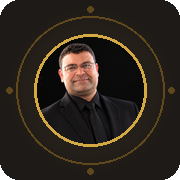
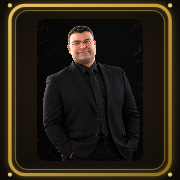
ر5: صورة المعلم كاملة في الدخلة والفافيكون + توحيد برايم ديفيلوبر — شاشة الدخلة الفخمة بلغة الضاد (المعلم كامل في إطار مذهب مربع + ميدالية الضاد + وسم لغة الضاد بدل الوش المقصوص بس) + الفافيكون وكل أيقونات PWA والسبلاش السبعة اتولدت من جديد بصورة المعلم الكاملة مربعة + الفوتر والنافبار ولوحة الأدمن 

diff --git a/src/app/page.tsx b/src/app/page.tsx
@@ -183,34 +183,58 @@ export default function HomePage() {
   const showFooter = currentView === 'landing'
   const showWhatsApp = currentView === 'landing' || currentView === 'auth-login' || currentView === 'auth-register'
 
-  // Full-page loading screen
+  /* (ر5) شاشة الدخلة الفخمة — طلب المستر حرفيًا:
+     «صورة المستر كاملة، المعلم كاملا، انت قاصص لي جايب لي وشه بس»
+     + «خليها مربع» + «الدخلة يكون فيها حرف الضاد أو لغة الضاد وحاجات بالعربي»
+     + «وتكون أفخم كده» — المعلم كامل في إطار مذهب مربع + ميدالية الضاد + لغة الضاد */
   if (!appReady) {
     return (
-      <div className="fixed inset-0 z-[9999] bg-background flex flex-col items-center justify-center gap-6">
-        <div className="relative">
-          <div className="absolute -inset-6 rounded-full bg-[#C49A38]/10 blur-xl" />
-          <div className="relative w-20 h-20 rounded-2xl bg-muted border border-[#C49A38]/30 flex items-center justify-center overflow-hidden">
-            {/* (2026-و97) صورة الفافيكون بتاعة المنصة بدل قبعة التخرج — طلب المستر
-                (2026-و97-B) الفافيكون الحقيقي = صورة المستر (زي الإنتاج بالظبط)
-                — مش لوجو Z: الفالب هنا لازم يكون نفس صورة الإنتاج */}
-            {/* eslint-disable-next-line @next/next/no-img-element */}
-            <img src={String(siteConfig.favicon_url || '/favicon.png')} alt="Mr. Mohamed Sabry" className="h-12 w-12 object-cover rounded-xl" />
+      <div className="fixed inset-0 z-[9999] overflow-hidden bg-[#0d0a07] flex flex-col items-center justify-center">
+        {/* خلفية فخمة: تدرج داكن + زخرفة المخطوطة العربية + توهجات مذهبة */}
+        <div className="absolute inset-0 bg-[radial-gradient(ellipse_at_center,#241b10_0%,#0d0a07_70%)]" />
+        <div className="absolute inset-0 bg-[url('/images/hero-pattern.jpg')] bg-cover bg-center opacity-[0.07]" />
+        <div className="absolute -top-24 -right-24 h-72 w-72 rounded-full bg-[#C49A38]/10 blur-3xl" />
+        <div className="absolute -bottom-24 -left-24 h-72 w-72 rounded-full bg-[#C49A38]/10 blur-3xl" />
+
+        <div className="relative z-10 flex flex-col items-center gap-5 px-6">
+          {/* وسم «لغة الضاد» — هوية عربية فخمة */}
+          <div className="flex items-center gap-2 rounded-full border border-[#C49A38]/50 bg-[#C49A38]/10 px-4 py-1.5">
+            <span className="flex h-6 w-6 items-center justify-center rounded-full bg-gradient-to-br from-[#E9C766] to-[#8B6914] text-[15px] font-bold leading-none text-[#171208]" style={{ fontFamily: 'Amiri, serif' }}>ض</span>
+            <span className="text-sm font-bold text-[#E5BE5A]" style={{ fontFamily: 'Amiri, serif' }}>لغة الضاد</span>
           </div>
-        </div>
-        <div className="text-center space-y-3">
-          <h1 className="text-2xl font-bold text-foreground tracking-wide">
-            منصة <span className="text-[#8B6914] dark:text-[#E5BE5A]">الأوائل</span>
-          </h1>
-          {/* (ص2) إيموجيز اللغة العربية بدل الرياضيات */}
-          <div className="flex items-end justify-center gap-3 text-3xl leading-none" dir="ltr">
-            <span className="animate-bounce">📖</span>
-            <span className="animate-bounce [animation-delay:0.15s]">✍</span>
-            <span className="animate-bounce [animation-delay:0.3s]">📚</span>
-            <span className="animate-bounce [animation-delay:0.45s]">🕌</span>
+
+          {/* صورة المستر كاملة — مربع بإطار مذهب مزدوج مش قاصصة وشه بس */}
+          <div className="relative mt-2">
+            <div className="absolute -inset-4 rounded-[1.75rem] bg-[#C49A38]/20 blur-2xl" />
+            <div className="relative h-40 w-40 rounded-[1.4rem] bg-gradient-to-br from-[#E9C766] via-[#C49A38] to-[#8B6914] p-[3px] shadow-[0_0_40px_rgba(196,154,56,0.35)]">
+              <div className="h-full w-full rounded-[1.3rem] border border-[#C49A38]/40 bg-[#0d0a07] p-[2px]">
+                {/* eslint-disable-next-line @next/next/no-img-element */}
+                <img src="/images/teacher-square.png" alt="مستر محمد صبري" className="h-full w-full rounded-[1.15rem] object-cover" />
+              </div>
+            </div>
+            {/* ميدالية حرف الضاد على ركن الإطار */}
+            <div className="absolute -top-3 -right-3 flex h-10 w-10 items-center justify-center rounded-full border-2 border-[#171208] bg-gradient-to-br from-[#E9C766] to-[#8B6914] shadow-lg">
+              <span className="text-xl font-bold leading-none text-[#171208]" style={{ fontFamily: 'Amiri, serif' }}>ض</span>
+            </div>
           </div>
+
+          <div className="text-center space-y-1.5">
+            <h1 className="text-3xl font-bold tracking-wide text-[#E5BE5A] sm:text-4xl" style={{ fontFamily: 'Amiri, serif' }}>
+              منصة الأوائل
+            </h1>
+            <p className="text-sm text-[#C9B48A]" style={{ fontFamily: 'Amiri, serif' }}>مستر محمد صبري — اللغة العربية</p>
+          </div>
+
+          {/* فاصل زخرفي مذهب */}
+          <div className="flex items-center gap-2 text-[#C49A38]/70" aria-hidden="true">
+            <span className="h-px w-14 bg-gradient-to-l from-transparent to-[#C49A38]/70" />
+            <span className="text-lg leading-none" style={{ fontFamily: 'Amiri, serif' }}>✦</span>
+            <span className="h-px w-14 bg-gradient-to-r from-transparent to-[#C49A38]/70" />
+          </div>
+
           <div className="flex items-center gap-3 justify-center">
             <Loader2 className="h-4 w-4 animate-spin text-[#C49A38]" />
-            <p className="text-muted-foreground text-sm">جاري التحميل...</p>
+            <p className="text-sm text-[#C9B48A]">جاري التحميل...</p>
           </div>
         </div>
       </div>

diff --git a/src/components/admin/AdminDashboard.tsx b/src/components/admin/AdminDashboard.tsx
@@ -553,10 +553,10 @@ export function AdminDashboard() {
                     <Input value={resendApiKey} onChange={(e) => setResendApiKey(e.target.value)} placeholder="re_xxxxxxxxxxxx" dir="ltr" type="password" className="font-mono text-xs" />
                     <p className="text-[10px] text-muted-foreground">يُستخدم لإرسال إشعارات بالبريد للطلاب. احصل عليه من resend.com</p>
                   </div>
-                  {/* Hero Developer Portfolio URL */}
+                  {/* (ر5) Prime Developer Portfolio URL — توحيد اسم المطوّر بطلب المستر */}
                   <div className="border-t pt-4 space-y-3">
                     <div className="flex items-center justify-between">
-                      <p className="text-xs font-semibold text-muted-foreground">رابط Hero Developer Portfolio</p>
+                      <p className="text-xs font-semibold text-muted-foreground">رابط Prime Developer Portfolio</p>
                       <Button size="sm" variant="outline" onClick={async () => {
                         setHeroDevSaving(true)
                         try {
@@ -565,7 +565,7 @@ export function AdminDashboard() {
                             // Update siteConfig in store so footer/hero reflect instantly
                             const cfg = useAppStore.getState().siteConfig
                             useAppStore.getState().setSiteConfig({ ...cfg, hero_developer_url: heroDevUrl })
-                            toast.success('تم حفظ رابط Hero Developer')
+                            toast.success('تم حفظ رابط Prime Developer')
                           } else { toast.error('خطأ في الحفظ') }
                         } catch { toast.error('خطأ في الحفظ') }
                         setHeroDevSaving(false)
@@ -573,8 +573,8 @@ export function AdminDashboard() {
                         {heroDevSaving ? <Loader2 className="h-3 w-3 animate-spin" /> : <Save className="h-3 w-3" />}
                       </Button>
                     </div>
-                    <Input value={heroDevUrl} onChange={(e) => setHeroDevUrl(e.target.value)} placeholder="https://hero-developer-portfolio-11.vercel.app" dir="ltr" type="url" className="font-mono text-xs" />
-                    <p className="text-[10px] text-muted-foreground">الرابط يظهر في الهيدر (Hero Developer) والفوتر (Developed by Adam Hawash). غيّره في أي وقت وبيتنعكس فوراً.</p>
+                    <Input value={heroDevUrl} onChange={(e) => setHeroDevUrl(e.target.value)} placeholder="https://prime-developer-portfolio-11.vercel.app" dir="ltr" type="url" className="font-mono text-xs" />
+                    <p className="text-[10px] text-muted-foreground">الرابط يظهر في الفوتر (Prime Developer + Powered by) والتوقيع (Developed by Adam Hawash). غيّره في أي وقت وبيتنعكس فوراً.</p>
                   </div>
                   {/* Payment Numbers */}
                   <div className="border-t pt-4 space-y-3">

diff --git a/src/components/landing/Footer.tsx b/src/components/landing/Footer.tsx
@@ -56,7 +56,9 @@ export function Footer() {
   var cfg = siteConfig
   var portfolioUrl = cfg.hero_developer_url || FALLBACK_PORTFOLIO_URL
   var primeUrl = cfg.prime_developer_url || FALLBACK_PORTFOLIO_URL
-  var heroDevLabel = cfg.hero_developer_label || 'Hero Developer'
+  /* (ر5) توحيد اسم المطوّر بطلب المستر: Prime Developer في كل حتة —
+     والتوقيعين (سطر الفوتر + Powered by) مرتبطين بنفس القيمة */
+  var heroDevLabel = cfg.hero_developer_label || 'Prime Developer'
   var madeByLabel = cfg.footer_made_by_label || 'Developed by Adam Hawash'
   var brandName = pickConfig(cfg, 'footer_brand', lang, 'منصة الأوائل', 'منصة الأوائل')
   var copyrightText = pickConfig(cfg, 'footer_copyright', lang, 'جميع الحقوق محفوظة لـ آدم حواوش', 'All rights reserved to Adam Hawash')
@@ -145,6 +147,8 @@ export function Footer() {
         {/* Powered by Prime Developer + Developed by Adam Hawash */}
         <div className="mt-6 pt-4 border-t border-border/40 text-center">
           {/* (2026-و79) طلب المستر: الخط أكبر في الموبايل واللابتوب */}
+          {/* (ر5) Powered by بياخد نفس اسم المطوّر الموحّد — الاتنين مرتبطين ببعض:
+              لما الأدمن يكتب برايم ديفيلوبر يبقى كل الفوتر برايم ديفيلوبر */}
           <p className="text-sm sm:text-base font-bold text-foreground flex flex-wrap items-center justify-center gap-x-1.5 gap-y-1">
             <span>Powered by</span>
             <a
@@ -153,7 +157,7 @@ export function Footer() {
               rel="noopener noreferrer"
               className="font-bold text-[#C49A38] hover:underline underline-offset-2 transition-colors"
             >
-              Prime Developer
+              {heroDevLabel}
             </a>
             <span className="text-muted-foreground">•</span>
             <a

diff --git a/src/components/admin/CMSPanel.tsx b/src/components/admin/CMSPanel.tsx
@@ -62,9 +62,9 @@ var TEXT_SECTIONS: SectionDef[] = [
       { key: 'hero_stat3_label', label: 'إحصائية 3 التسمية', type: 'text' },
       { key: 'instructor_name', label: 'اسم المعلم | Instructor Name', type: 'text' },
       { key: 'instructor_title', label: 'لقب المعلم | Instructor Title', type: 'text' },
-      { key: 'hero_developer_url', label: 'رابط Hero Developer Portfolio', type: 'text' },
+      { key: 'hero_developer_url', label: 'رابط Prime Developer Portfolio', type: 'text' },
       { key: 'prime_developer_url', label: 'رابط Prime Developer (Powered by)', type: 'text' },
-      { key: 'hero_developer_label', label: 'كلمة Hero Developer (النص الظاهر)', type: 'text' },
+      { key: 'hero_developer_label', label: 'كلمة Prime Developer (النص الظاهر)', type: 'text' },
       { key: 'footer_made_by_label', label: 'كلمة Made by ... (النص الظاهر في الفوتر)', type: 'text' },
     ],
   },
@@ -185,9 +185,9 @@ var TEXT_SECTIONS: SectionDef[] = [
       { key: 'social_youtube', label: 'رابط يوتيوب', type: 'text' },
       { key: 'footer_brand', label: 'اسم الموقع في الفوتر', type: 'text' },
       { key: 'footer_copyright', label: 'نص حقوق الملكية', type: 'text' },
-      { key: 'hero_developer_url', label: 'رابط Hero Developer Portfolio', type: 'text' },
+      { key: 'hero_developer_url', label: 'رابط Prime Developer Portfolio', type: 'text' },
       { key: 'prime_developer_url', label: 'رابط Prime Developer (Powered by)', type: 'text' },
-      { key: 'hero_developer_label', label: 'كلمة Hero Developer (النص الظاهر)', type: 'text' },
+      { key: 'hero_developer_label', label: 'كلمة Prime Developer (النص الظاهر)', type: 'text' },
       { key: 'footer_made_by_label', label: 'كلمة Made by ... (النص الظاهر في الفوتر)', type: 'text' },
     ],
   },

diff --git a/src/lib/ensure-schema.ts b/src/lib/ensure-schema.ts
@@ -213,6 +213,13 @@ var SCHEMA_FIXES = [
   // ===== (2026-و79) تصحيح اسم المطور (التهجئة المطلوبة من المستر: **Adam Hawash**) =====
   // أي قيمة مخزنة فيها 'Adham Hawash' (التهجئة القديمة) بتتصحح مرة واحدة هنا (idempotent)
   "UPDATE SiteConfig SET value = REPLACE(value, 'Adham Hawash', 'Adam Hawash') WHERE (key LIKE '%made_by%' OR key LIKE '%developer_label%') AND value LIKE '%Adham Hawash%'",
+  // ===== (ر5) توحيد اسم المطوّر — طلب المستر: «لما أكتب برايم ديفيلوبر يبقى
+  // كل اللي في المنصة برايم ديفيلوبر» — أي قيمة مخزنة فيها Hero Developer
+  // بتتصحح لـ Prime Developer مرة واحدة هنا (idempotent)
+  "UPDATE SiteConfig SET value = REPLACE(value, 'Hero Developer', 'Prime Developer') WHERE key = 'hero_developer_label' AND value LIKE '%Hero Developer%'",
+  /* (ر5) الفافيكون الرسمي اتحسم في layout.tsx على /pwa-icon-192.png (الصورة
+     الكاملة الجديدة) — favicon_url نفسها فاضلة لاستخدامها الشرعي في
+     إشعارات ولي الأمر (parent-notify) ومن غير أي ترحيل إجباري عليها */
   // ===== (2026-و31) صورة المعلم = الأساسية والبديلة (طلب المستر حرفيًا: «صورة المعلم
   // تكون هي الأساسية والبديلة، ما تحطش حاجة من دماغك») =====
   // روابط الصور القديمة (i.imghos.co) كانت متخزنة في الكاش عند الطلاب بصورة مش

diff --git a/src/app/layout.tsx b/src/app/layout.tsx
@@ -69,14 +69,10 @@ export default async function RootLayout({
     /* DB not available yet — client will fetch via /api/config */
   }
 
-  // Favicon: أيقونة المنصة الرسمية (صورة المستر باسم Mr. Mohamed Sabry) —
-  /* (2026-و112) أي favicon_url قديمة فيها لوجو Z = الأيقونة الرسمية
-     (نفس ترميم Zicola و73) — عشان نافذة كلمات السر في كروم تعرض
-     أيقونة كل منصة بتاعتها مش لوجو Z المشترك (طلب المستر) */
-  var faviconUrl = initialConfig.favicon_url || "/pwa-icon-192.png";
-  if (typeof faviconUrl !== "string" || faviconUrl === "" || faviconUrl.indexOf("logo.svg") !== -1) {
-    faviconUrl = "/pwa-icon-192.png";
-  }
+  /* (ر5) الفافيكون الرسمي = صورة المعلم الكاملة مربعة — طلب المستر حرفيًا:
+     «البابيكون عايزها صورة المستر كاملة... خليها مربع» — بقى ثابت مش بيتقرأ
+     من favicon_url القديمة المخزنة (اللي كانت صورة قاصصة وشه بس) */
+  var faviconUrl = "/pwa-icon-192.png";
 
   return (
     <html lang="ar" dir="rtl" translate="no" suppressHydrationWarning>

diff --git a/src/app/api/config/route.ts b/src/app/api/config/route.ts
@@ -26,7 +26,9 @@ var DEFAULTS = {
   hero_stat3_value: '24/7',
   hero_stat3_label: 'Progress Tracking',
   hero_developer_url: 'https://prime-developer-portfolio-11.vercel.app',
-  hero_developer_label: 'Hero Developer',
+  /* (ر5) اسم المطوّر الموحّد — طلب المستر: «لما أكتب برايم ديفيلوبر يبقى
+     كل اللي في المنصة برايم ديفيلوبر» — Prime Developer مش Hero Developer */
+  hero_developer_label: 'Prime Developer',
   footer_made_by_label: 'Developed by Adam Hawash',
   prime_developer_url: 'https://prime-developer-portfolio-11.vercel.app',
 
